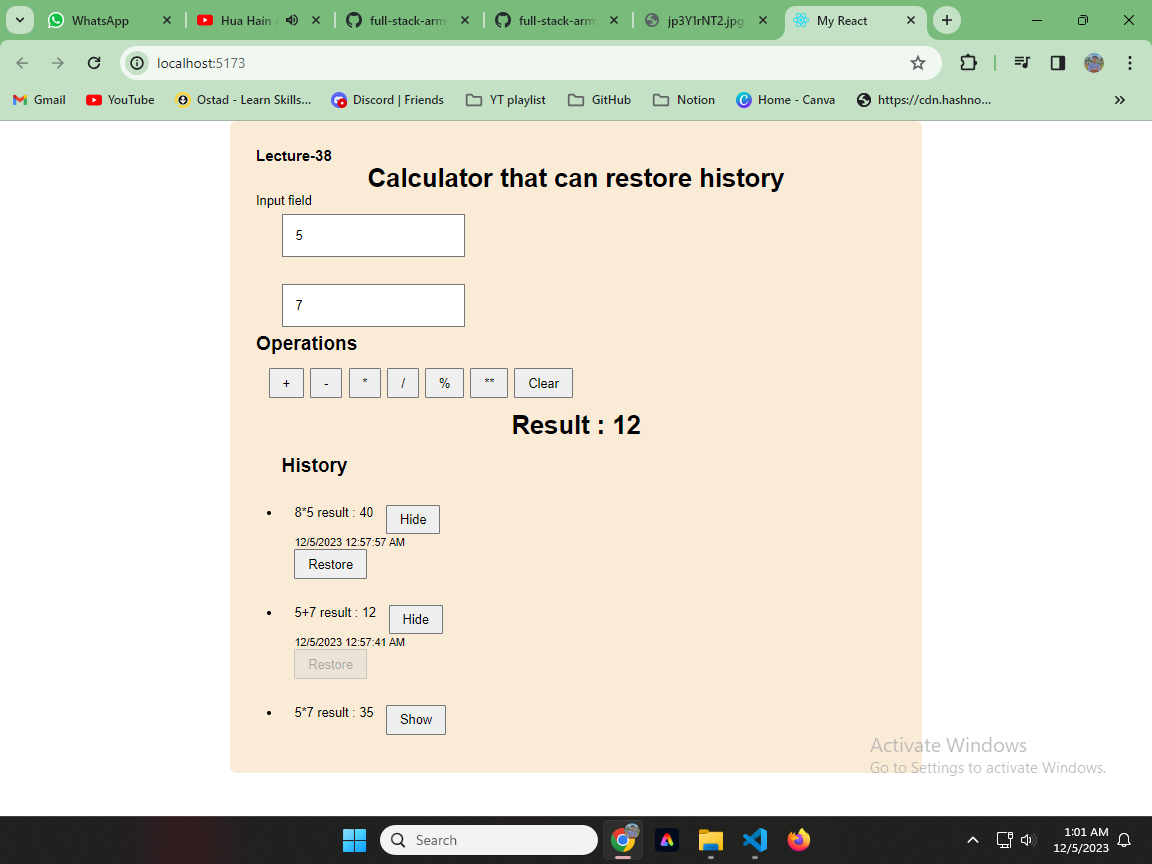
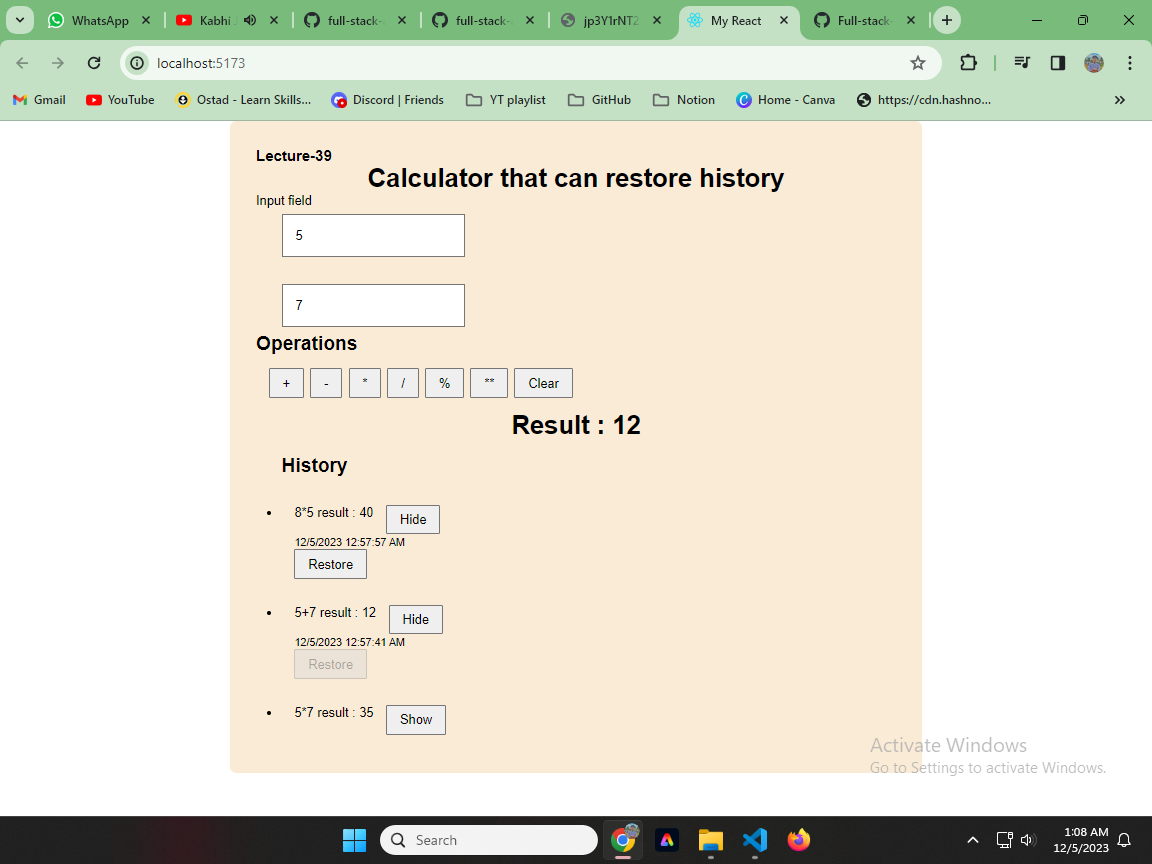
"refactore code -39"

Changed region(s): [[0.125, 0.0, 0.8125, 0.0625]]

diff --git a/Lecture-39/src/App.jsx b/Lecture-39/src/App.jsx
@@ -81,7 +81,7 @@ const App = () => {
 
     return (
         <div className="container">
-            <h3>Lecture-38</h3>
+            <h3>Lecture-39</h3>
             <h1>Calculator that can restore history</h1>
 
             <InputSection
